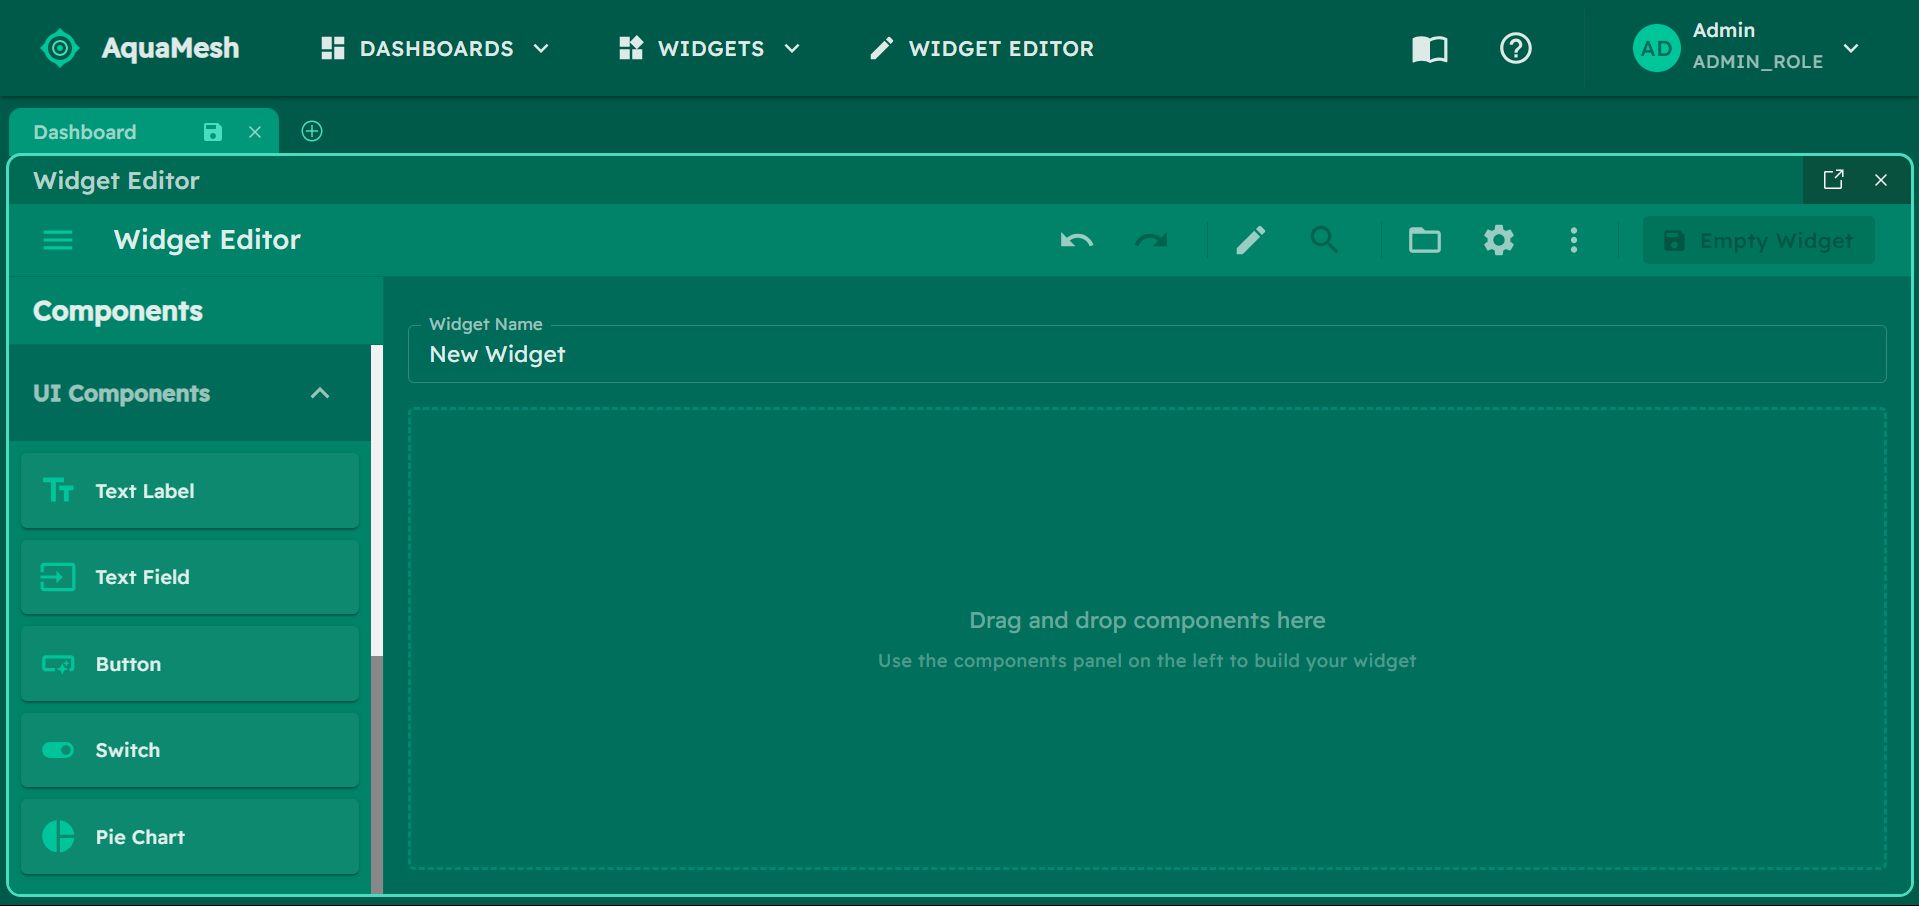
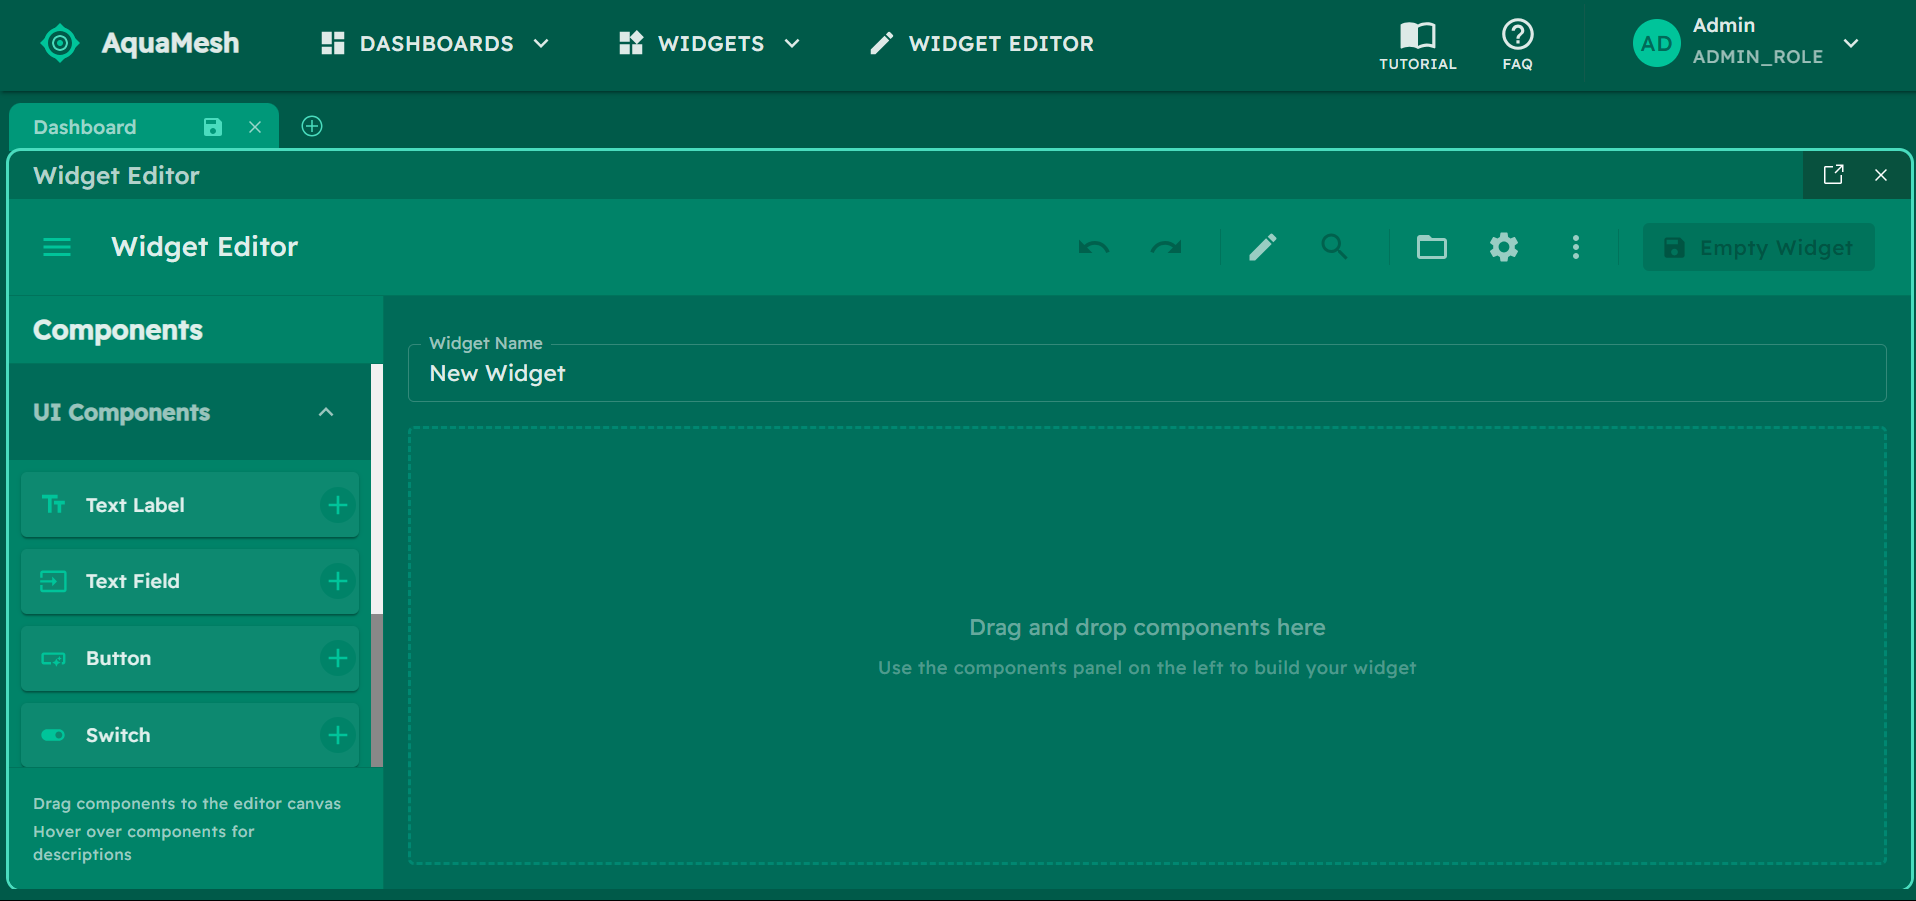
AquaMesh:MAIN Update tutorial and add phone pictures

diff --git a/readme_docs/TUTORIAL.md b/readme_docs/TUTORIAL.md
@@ -18,8 +18,8 @@ The top navigation bar provides quick access to all platform capabilities:
 - **🧩 Widgets**: Access ready-made components and your custom-built widgets
 - **🔧 Widget Editor**: The heart of our no-code experience. Build custom widgets without programming!
 - **📚 Libraries**: Save and organize your dashboard and widget creations
-- **❓ Support**: Get help through the tutorial and FAQ sections
-- **👤 User Management**: Select and manage user profiles (only admin can create new widgets)
+- **❓ Help**: Get support through the tutorial and FAQ sections
+- **👤 User**: Select and manage user profiles (only admin can create new widgets)
 
 All our pre-built widgets load as microfrontends using Module Federation. Want to customize what's available? Just update the `apps/aquamesh/public/config/widgets.json` file.
 
@@ -87,3 +87,12 @@ AquaMesh's most powerful feature is its **Widget Editor**, which enables users t
 
 ![Import & Export](./readme_images/import_export1.png)
 ![Import & Export](./readme_images/import_export2.png)
+
+### 📱💻🖥 Responsive
+Aquamesh is responsive and can be used with your phone, tablet or computer. However, computer is the most recommended especially to build complex layouts.
+
+#### 📱 Phone
+![Phone empty](./readme_images/phone/phone_empty.jpg)
+![Phone Templates](./readme_images/phone/phone_templates.jpg)
+![Phone Widget History](./readme_images/phone/phone_widget_history.jpg)
+![Phone Import & Export](./readme_images/phone/phone_import_export.jpg)
